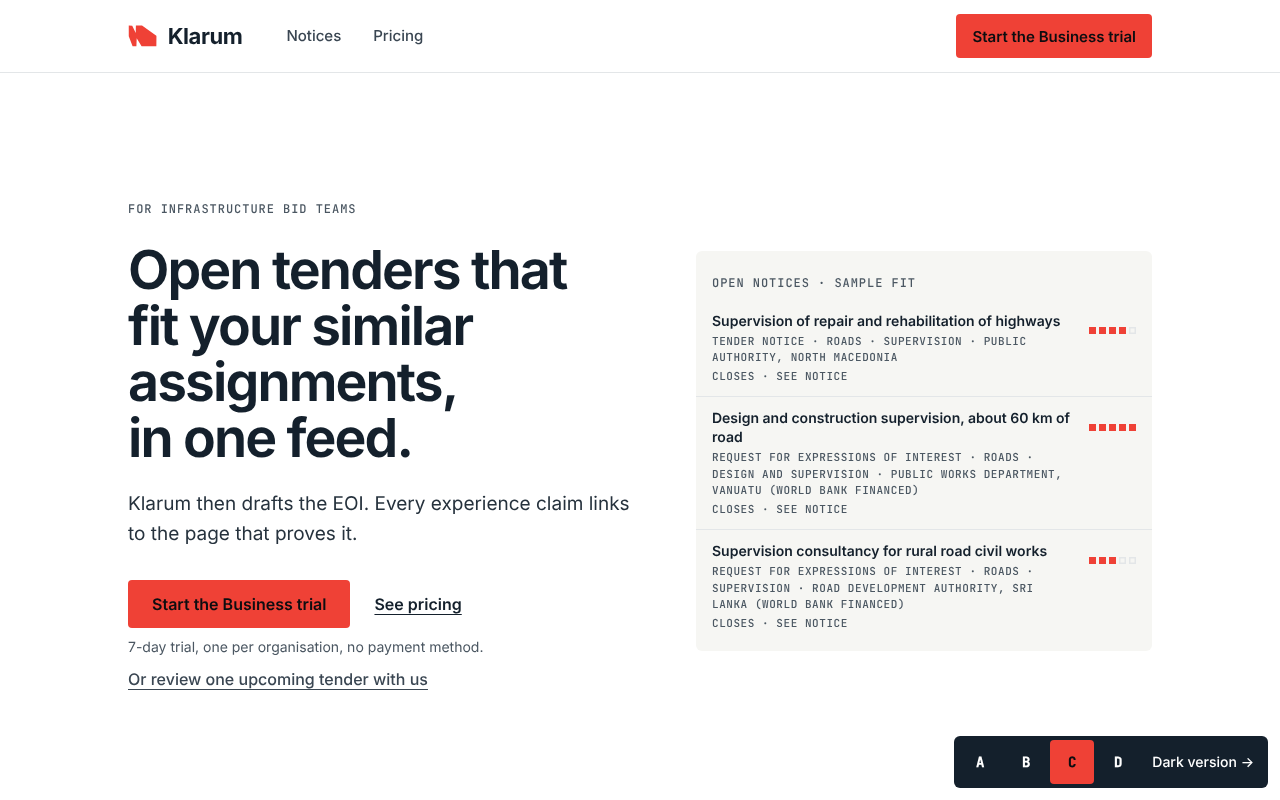
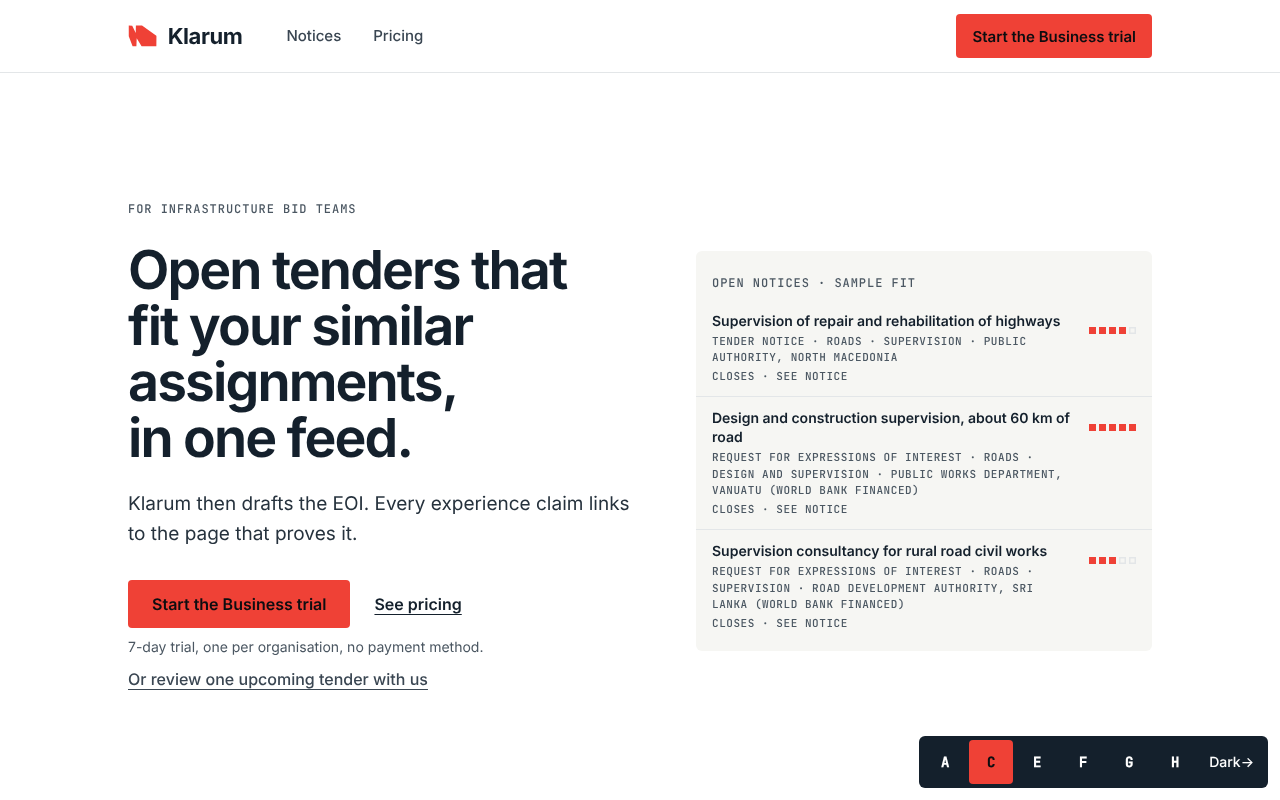
v2: drop heroes B and D; add four Night-light heroes (mass, signal, lens, one-of-these) as SVG dot fields
Built from the Klarum Design Selects canvas. Raster backgrounds replaced with inline SVG to
stay inside the no-images-above-the-fold budget; copy swapped to claims-ledger wording.

Claude-Session: https://claude.ai/code/session_01EG1FwseZsdu64NB1Ckikp9

Changed region(s): [[0.7188, 0.9062, 0.9688, 1.0]]

diff --git a/components/v2/Field.tsx b/components/v2/Field.tsx
@@ -1,0 +1,108 @@
+import { notices, type Notice } from "@/lib/data";
+import { Pips } from "@/components/Pips";
+
+/* Static, deterministic "notice field" art. Pure SVG, no raster, no motion except the pulse ring. */
+
+function rng(seed: number) {
+  return () => {
+    seed |= 0; seed = (seed + 0x6d2b79f5) | 0;
+    let t = Math.imul(seed ^ (seed >>> 15), 1 | seed);
+    t = (t + Math.imul(t ^ (t >>> 7), 61 | t)) ^ t;
+    return ((t ^ (t >>> 14)) >>> 0) / 4294967296;
+  };
+}
+
+const K_PATH = "M18 14 L100 18 L182 190 L186 14 L330 14 L668 252 L670 268 L668 500 L320 500 L205 312 L198 500 L108 500 L18 262 Z";
+const K_POLY: [number, number][] = [[18,14],[100,18],[182,190],[186,14],[330,14],[668,252],[670,268],[668,500],[320,500],[205,312],[198,500],[108,500],[18,262]];
+
+function inPoly(x: number, y: number, poly: [number, number][]) {
+  let c = false;
+  for (let i = 0, j = poly.length - 1; i < poly.length; j = i++) {
+    const [xi, yi] = poly[i], [xj, yj] = poly[j];
+    if (yi > y !== yj > y && x < ((xj - xi) * (y - yi)) / (yj - yi) + xi) c = !c;
+  }
+  return c;
+}
+
+type Dot = { x: number; y: number; hit: boolean };
+
+function scatter(n: number, w: number, h: number, seed: number, keep: (x: number, y: number) => boolean, hits: (x: number, y: number, i: number) => boolean): Dot[] {
+  const r = rng(seed), out: Dot[] = [];
+  let guard = 0;
+  while (out.length < n && guard++ < n * 40) {
+    const x = Math.round(r() * w), y = Math.round(r() * h);
+    if (keep(x, y)) out.push({ x, y, hit: hits(x, y, out.length) });
+  }
+  return out;
+}
+
+const grey = "#c3cad1", red = "#ef4136";
+
+function Dots({ dots, r = 3, rHit = 5.5 }: { dots: Dot[]; r?: number; rHit?: number }) {
+  return (
+    <>
+      {dots.filter((d) => !d.hit).map((d, i) => <circle key={i} cx={d.x} cy={d.y} r={r} fill={grey} />)}
+      {dots.filter((d) => d.hit).map((d, i) => <circle key={`h${i}`} cx={d.x} cy={d.y} r={rHit} fill={red} />)}
+    </>
+  );
+}
+
+const K_DOTS = scatter(1500, 700, 518, 7, (x, y) => inPoly(x, y, K_POLY), (_x, _y, i) => i % 97 === 5);
+const LENS = { cx: 330, cy: 260, r: 150 };
+const FIELD_DOTS = scatter(430, 640, 520, 11, () => true, (x, y, i) => i % 5 === 0 && (x - LENS.cx) ** 2 + (y - LENS.cy) ** 2 < (LENS.r - 14) ** 2);
+const ONE_DOTS = scatter(430, 640, 520, 23, (x, y) => (x - 470) ** 2 + (y - 270) ** 2 > 22 ** 2, () => false);
+
+function Card({ n, left, top, hit }: { n: Notice; left: string; top: string; hit?: boolean }) {
+  return (
+    <a href={n.source_url} rel="noopener" className={hit ? "m-fcard hit" : "m-fcard"} style={{ left, top }}>
+      <span className="m-fcard-t">{n.title}</span>
+      <span className="m-fcard-m">
+        <span>{n.type === "Request for expressions of interest" ? "REOI" : n.type}</span>
+        <Pips n={n.fit_sample} />
+      </span>
+    </a>
+  );
+}
+
+const [ted, vanuatu, srilanka] = notices;
+
+export type FieldKind = "mass" | "signal" | "lens" | "one";
+
+export function Field({ kind }: { kind: FieldKind }) {
+  const kShape = kind === "mass" || kind === "signal";
+  return (
+    <figure className={`m-field m-field-${kind}`}>
+      <svg viewBox={kShape ? "0 0 700 518" : "0 0 640 520"} aria-hidden="true" focusable="false">
+        {kind === "mass" && (
+          <>
+            <defs>
+              <pattern id="m-dots" width="16" height="16" patternUnits="userSpaceOnUse"><circle cx="8" cy="8" r="3" fill={grey} /></pattern>
+            </defs>
+            <path d={K_PATH} fill="url(#m-dots)" />
+          </>
+        )}
+        {kind === "signal" && <Dots dots={K_DOTS} r={2.6} rHit={6} />}
+        {kind === "lens" && (
+          <>
+            <Dots dots={FIELD_DOTS} />
+            <circle cx={LENS.cx} cy={LENS.cy} r={LENS.r} fill="none" stroke="#14202c" strokeWidth="1.5" />
+          </>
+        )}
+        {kind === "one" && (
+          <>
+            <Dots dots={ONE_DOTS} />
+            <circle cx="470" cy="270" r="7" fill="#14202c" />
+            <circle className="m-pulse" cx="470" cy="270" r="14" fill="none" stroke="#14202c" strokeWidth="2" />
+          </>
+        )}
+      </svg>
+      {kind === "mass" && (<><Card n={ted} left="2%" top="6%" /><Card n={vanuatu} left="42%" top="38%" hit /><Card n={srilanka} left="8%" top="68%" /></>)}
+      {kind === "signal" && <Card n={vanuatu} left="40%" top="68%" hit />}
+      {kind === "lens" && (<><Card n={vanuatu} left="30%" top="26%" hit /><Card n={ted} left="38%" top="58%" hit /></>)}
+      {kind === "one" && <Card n={vanuatu} left="56%" top="52%" hit />}
+      <figcaption className="m-fcap">
+        {{ mass: "The mark is the mass. Notices are pulled out of it.", signal: "Grey is the feed. Red is what fits.", lens: "Inside the circle: what fits your similar assignments.", one: "Every dot is a notice." }[kind]} Illustrative; fit scores are sample values.
+      </figcaption>
+    </figure>
+  );
+}

diff --git a/components/v2/Hero.tsx b/components/v2/Hero.tsx
@@ -1,15 +1,16 @@
 import { URLS, notices } from "@/lib/data";
-import { CitedClaim } from "@/components/CitedClaim";
 import { CompactNotice } from "@/components/NoticeFeed";
-import { KMark } from "@/components/KMark";
+import { Field, type FieldKind } from "./Field";
 
-export type HeroId = "a" | "b" | "c" | "d";
-export const HERO_IDS: HeroId[] = ["a", "b", "c", "d"];
+export type HeroId = "a" | "c" | "e" | "f" | "g" | "h";
+export const HERO_IDS: HeroId[] = ["a", "c", "e", "f", "g", "h"];
 export const HERO_NOTES: Record<HeroId, string> = {
   a: "Statement. Type only.",
-  b: "Proof. The cited claim is the hero.",
   c: "Feed. Notices beside the promise.",
-  d: "Mark. The K as a quiet shape.",
+  e: "The mass. The K as a field of dots.",
+  f: "Signal in the shape. Red is what fits.",
+  g: "Lens. The market filtered by fit.",
+  h: "One of these is yours.",
 };
 
 function Actions({ note = true }: { note?: boolean }) {
@@ -38,20 +39,6 @@ function A() {
   );
 }
 
-function B() {
-  return (
-    <section className="m-hero m-hero-b">
-      <div className="m-wrap">
-        <p className="m-lab">For infrastructure bid teams</p>
-        <h1>Every claim in your EOI, linked to the page that proves it.</h1>
-        <div className="m-hero-claim"><CitedClaim /></div>
-        <Actions />
-        <a href={URLS.review} className="m-link m-quiet">Or review one upcoming tender with us</a>
-      </div>
-    </section>
-  );
-}
-
 function C() {
   return (
     <section className="m-hero m-hero-c">
@@ -72,20 +59,28 @@ function C() {
   );
 }
 
-function D() {
+function FieldHero({ kind, title, lead }: { kind: FieldKind; title: string; lead: string }) {
   return (
-    <section className="m-hero m-hero-d">
-      <KMark className="m-bigk" />
-      <div className="m-wrap">
-        <p className="m-lab">For infrastructure bid teams</p>
-        <h1>Search live tender notices, draft from your own references, track every bid.</h1>
-        <Actions />
-        <a href={URLS.review} className="m-link m-quiet">Or review one upcoming tender with us</a>
+    <section className={`m-hero m-hero-field m-hero-${kind}`}>
+      <div className="m-wrap m-split">
+        <div>
+          <p className="m-lab">For infrastructure bid teams</p>
+          <h1>{title}</h1>
+          <p className="m-lead">{lead}</p>
+          <Actions />
+          <a href={URLS.review} className="m-link m-quiet">Or review one upcoming tender with us</a>
+        </div>
+        <Field kind={kind} />
       </div>
     </section>
   );
 }
 
+const E = () => <FieldHero kind="mass" title="Source more of the work that fits." lead="Klarum finds open tenders that fit your similar assignments, then drafts the EOI." />;
+const F = () => <FieldHero kind="signal" title="The right work, resolved from the noise." lead="Klarum finds open tenders that fit your similar assignments." />;
+const G = () => <FieldHero kind="lens" title="The whole market, filtered by what you can deliver." lead="Sources include national procurement portals, TED and the development banks. Klarum marks the notices that fit your similar assignments." />;
+const H = () => <FieldHero kind="one" title="One of these is yours." lead="Sources include national procurement portals, TED and the development banks. Every notice links back to the original publication." />;
+
 export function Hero({ id }: { id: HeroId }) {
-  return { a: <A />, b: <B />, c: <C />, d: <D /> }[id];
+  return { a: <A />, c: <C />, e: <E />, f: <F />, g: <G />, h: <H /> }[id];
 }

diff --git a/app/v2/minimal.css b/app/v2/minimal.css
@@ -43,11 +43,7 @@ html:has(.m) body { background: #fff; color: var(--body); }
 
 .m-hero { padding-block: var(--pad); position: relative; overflow: hidden; }
 .m-hero-a h1 { max-width: 18ch; }
-.m-hero-b { text-align: left; }
 .m h1 { text-wrap: balance; }
-.m-hero-b h1 { max-width: 24ch; }
-.m-hero-claim { margin-top: 40px; max-width: 640px; padding: 24px; background: var(--surf); border-radius: 6px; }
-.m-hero-claim .claim { margin-top: 0; }
 .m-hero-c h1 { font-size: clamp(2rem, 4.2vw, 3.5rem); max-width: 16ch; }
 .m-split { display: grid; grid-template-columns: minmax(0, 1.05fr) minmax(0, 0.95fr); gap: 64px; align-items: center; }
 .m-feed { background: var(--surf); border-radius: 6px; padding: 8px 0; }
@@ -55,9 +51,22 @@ html:has(.m) body { background: #fff; color: var(--body); }
 .m-feed ul { list-style: none; padding: 0; }
 .m-feed .nrow { border-color: var(--line); }
 @media (max-width: 960px) { .m-split { grid-template-columns: 1fr; gap: 40px; } }
-.m-bigk { position: absolute; right: -8%; top: 50%; width: min(720px, 80%); transform: translateY(-50%); color: var(--surf); pointer-events: none; }
-.m-hero-d .m-wrap { position: relative; }
-.m-hero-d h1 { max-width: 16ch; }
+.m-hero-field h1 { max-width: 15ch; }
+.m-hero-one h1 { font-size: clamp(2.5rem, 6.6vw, 5.5rem); max-width: 8ch; }
+.m-field { position: relative; margin: 0; width: 100%; }
+.m-field svg { display: block; width: 100%; height: auto; }
+.m-field-mass svg, .m-field-signal svg { aspect-ratio: 700 / 518; }
+.m-field-lens svg, .m-field-one svg { aspect-ratio: 640 / 520; }
+.m-fcard { position: absolute; display: grid; gap: 6px; width: min(250px, 58%); padding: 10px 12px; background: rgba(255, 255, 255, 0.96); border: 1px solid #b4bec8; border-radius: 4px; text-decoration: none; color: var(--ink); }
+.m-fcard.hit { border-color: var(--red); }
+.m-fcard:hover .m-fcard-t { text-decoration: underline; text-underline-offset: 3px; }
+.m-fcard-t { font-size: 0.875rem; font-weight: 600; line-height: 1.3; }
+.m-fcard-m { display: flex; justify-content: space-between; align-items: center; gap: 8px; font: 500 0.6875rem / 1.3 var(--font-mono); letter-spacing: 0.05em; text-transform: uppercase; color: var(--mute); }
+.m-fcard .pip { width: 8px; height: 8px; }
+.m-fcap { margin-top: 16px; font: 500 0.6875rem / 1.5 var(--font-mono); letter-spacing: 0.05em; text-transform: uppercase; color: var(--mute); }
+.m-pulse { transform-box: fill-box; transform-origin: center; animation: m-ping 2.6s ease-out infinite; }
+@keyframes m-ping { from { transform: scale(1); opacity: 0.6; } to { transform: scale(2.2); opacity: 0; } }
+@media (max-width: 760px) { .m-field-mass .m-fcard:nth-of-type(3) { display: none; } .m-fcard { width: min(230px, 66%); } }
 
 .m-proof { border-top: 1px solid var(--line); padding-block: 40px; }
 .m-proof ul { display: flex; flex-wrap: wrap; gap: 8px 32px; margin-top: 12px; list-style: none; padding: 0; font: 600 1.0625rem / 1.3 var(--font-body); color: var(--sub); }

diff --git a/tests/v2.spec.ts b/tests/v2.spec.ts
@@ -4,9 +4,11 @@ import AxeBuilder from "@axe-core/playwright";
 // Light, minimalist version at /v2/<hero>. Dark version stays at /.
 const HEROES = {
   a: /Turn your own project files into an expression of interest/,
-  b: /Every claim in your EOI, linked to the page that proves it\./,
   c: /Open tenders that fit your similar assignments, in one feed\./,
-  d: /Search live tender notices, draft from your own references, track every bid\./,
+  e: /Source more of the work that fits\./,
+  f: /The right work, resolved from the noise\./,
+  g: /The whole market, filtered by what you can deliver\./,
+  h: /One of these is yours\./,
 } as const;
 const FORBIDDEN = /app\.klarum\.com|api\.klarum\.com|posthog/i;
 
@@ -21,6 +23,7 @@ for (const [id, h1] of Object.entries(HEROES)) {
       const [r, g, b] = bg.match(/\d+/g)!.map(Number);
       expect(Math.min(r, g, b), "page ground must be light").toBeGreaterThan(235);
       expect(await page.evaluate(() => document.documentElement.scrollWidth - innerWidth)).toBeLessThanOrEqual(0);
+      expect(await page.locator("video, iframe, img").count(), "no images, video or iframes").toBe(0);
     });
 
     test("axe: no serious or critical issues", async ({ page }) => {
@@ -67,10 +70,10 @@ for (const [id, h1] of Object.entries(HEROES)) {
   });
 }
 
-test("v2: switcher links all four heroes and the dark version", async ({ page }) => {
+test("v2: switcher links every hero and the dark version", async ({ page }) => {
   await page.goto("/v2/a");
   const nav = page.getByRole("navigation", { name: "Hero variants" });
-  for (const l of ["A", "B", "C", "D"]) await expect(nav.getByRole("link", { name: new RegExp(`^Hero ${l}`) })).toBeVisible();
+  for (const l of ["A", "C", "E", "F", "G", "H"]) await expect(nav.getByRole("link", { name: new RegExp(`^Hero ${l}`) })).toBeVisible();
   await expect(nav.getByRole("link", { name: /Dark version/ })).toHaveAttribute("href", "/");
 });
 

diff --git a/components/v2/Page.tsx b/components/v2/Page.tsx
@@ -53,14 +53,12 @@ export function Page({ hero }: { hero: HeroId }) {
           </div>
         </section>
 
-        {hero !== "b" && (
-          <section className="m-section m-tint">
-            <div className="m-wrap m-narrow">
-              <h2>Go or no-go, then a draft cited to your own record.</h2>
-              <CitedClaim />
-            </div>
-          </section>
-        )}
+        <section className="m-section m-tint">
+          <div className="m-wrap m-narrow">
+            <h2>Go or no-go, then a draft cited to your own record.</h2>
+            <CitedClaim />
+          </div>
+        </section>
 
         <section className="m-section" id="notices">
           <div className="m-wrap">

diff --git a/components/v2/Switcher.tsx b/components/v2/Switcher.tsx
@@ -10,7 +10,7 @@ export function Switcher({ current }: { current: HeroId }) {
           <span className="sr">: {HERO_NOTES[id]}</span>
         </a>
       ))}
-      <a href="/" className="m-switch-dark">Dark version →</a>
+      <a href="/" className="m-switch-dark">Dark<span className="sr"> version</span> →</a>
     </nav>
   );
 }
